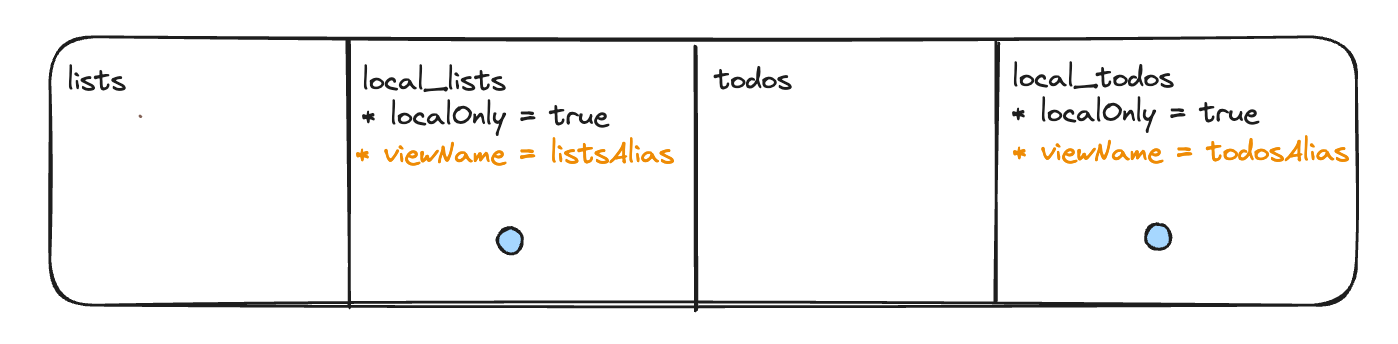
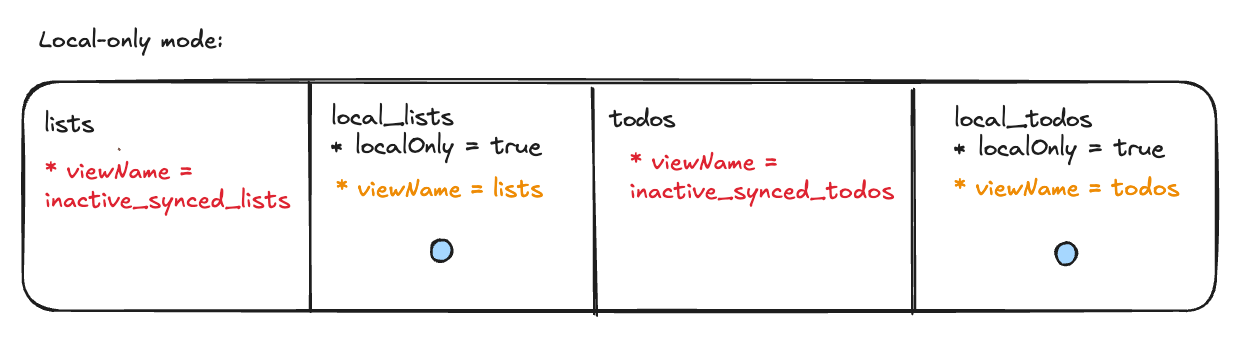
More polish

diff --git a/demos/local-only-todolist/lib/models/todo_list.dart b/demos/local-only-todolist/lib/models/todo_list.dart
@@ -1,3 +1,5 @@
+import 'package:powersync_flutter_local_only_demo/models/schema.dart';
+
 import 'package:powersync/powersync.dart';
 import 'package:powersync/sqlite3_common.dart' as sqlite;
 
@@ -39,7 +41,7 @@ class TodoList {
   static Stream<List<TodoList>> watchLists() {
     // This query is automatically re-run when data in "lists" or "todos" is modified.
     return db
-        .watch('SELECT * FROM lists ORDER BY created_at, id')
+        .watch('SELECT * FROM $listsTable ORDER BY created_at, id')
         .map((results) {
       return results.map(TodoList.fromRow).toList(growable: false);
     });
@@ -51,8 +53,8 @@ class TodoList {
     return db.watch('''
       SELECT
         *,
-        (SELECT count() FROM todos WHERE list_id = lists.id AND completed = TRUE) as completed_count,
-        (SELECT count() FROM todos WHERE list_id = lists.id AND completed = FALSE) as pending_count
+        (SELECT count() FROM $todosTable WHERE list_id = lists.id AND completed = TRUE) as completed_count,
+        (SELECT count() FROM $todosTable WHERE list_id = lists.id AND completed = FALSE) as pending_count
       FROM lists
       ORDER BY created_at
     ''').map((results) {
@@ -68,7 +70,7 @@ class TodoList {
   static Future<TodoList> create(String name) async {
     final results = await db.execute('''
       INSERT INTO
-        lists(id, created_at, name, owner_id)
+        $listsTable(id, created_at, name, owner_id)
         VALUES(uuid(), datetime(), ?, ?)
       RETURNING *
       ''', [name, getUserId()]);
@@ -78,7 +80,7 @@ class TodoList {
   /// Watch items within this list.
   Stream<List<TodoItem>> watchItems() {
     return db.watch(
-        'SELECT * FROM todos WHERE list_id = ? ORDER BY created_at DESC, id',
+        'SELECT * FROM $todosTable WHERE list_id = ? ORDER BY created_at DESC, id',
         parameters: [id]).map((event) {
       return event.map(TodoItem.fromRow).toList(growable: false);
     });
@@ -86,12 +88,12 @@ class TodoList {
 
   /// Delete this list.
   Future<void> delete() async {
-    await db.execute('DELETE FROM lists WHERE id = ?', [id]);
+    await db.execute('DELETE FROM $listsTable WHERE id = ?', [id]);
   }
 
   /// Find list item.
   static Future<TodoList> find(id) async {
-    final results = await db.get('SELECT * FROM lists WHERE id = ?', [id]);
+    final results = await db.get('SELECT * FROM $listsTable WHERE id = ?', [id]);
     return TodoList.fromRow(results);
   }
 
@@ -99,7 +101,7 @@ class TodoList {
   Future<TodoItem> add(String description) async {
     final results = await db.execute('''
       INSERT INTO
-        todos(id, created_at, completed, list_id, description, created_by)
+        $todosTable(id, created_at, completed, list_id, description, created_by)
         VALUES(uuid(), datetime(), FALSE, ?, ?, ?)
       RETURNING *
     ''', [id, description, getUserId()]);

diff --git a/demos/local-only-todolist/lib/models/schema.dart b/demos/local-only-todolist/lib/models/schema.dart
@@ -4,6 +4,9 @@ import 'package:powersync_flutter_local_only_demo/models/sync_mode.dart';
 /// This schema design supports a local-only to sync-enabled workflow by managing data
 /// across two versions of each table: one for local-only use without syncing before a user registers, 
 /// the other for sync-enabled use after the user registers/signs in.
+/// 
+/// This is done by utilizing the viewName property to override the default view name
+/// of a table.
 ///
 /// See the README for details.
 ///
@@ -16,16 +19,22 @@ const listsTable = 'lists';
 Schema makeSchema({synced = bool}) {
   String syncedName(String table) {
     if (synced) {
+      // results in lists, todos
       return table;
     } else {
+      // in the local-only mode of the demo
+      // these tables are not used
       return "inactive_synced_$table";
     }
   }
 
   String localName(String table) {
     if (synced) {
+      // in the sync-enabled mode of the demo
+      // these tables are not used
       return "inactive_local_$table";
     } else {
+      // results in lists, todos
       return table;
     }
   }
@@ -68,10 +77,10 @@ switchToSyncedSchema(PowerSyncDatabase db, String userId) async {
   await setSyncEnabled(true);
 
   await db.writeTransaction((tx) async {
-    // Copy local-only data to the sync-enabled tables/views.
+    // Copy local-only data to the sync-enabled views.
     // This records each operation in the upload queue.
     await tx.execute(
-        'INSERT INTO lists(id, name, created_at, owner_id) SELECT id, name, created_at, ? FROM inactive_local_lists',
+        'INSERT INTO $listsTable(id, name, created_at, owner_id) SELECT id, name, created_at, ? FROM inactive_local_$listsTable',
         [userId]);
 
     await tx.execute(

diff --git a/demos/local-only-todolist/lib/app_config.dart b/demos/local-only-todolist/lib/app_config.dart
@@ -1,6 +1,6 @@
 // Enter your Supabase and PowerSync project details.
 class AppConfig {
-  static const String supabaseUrl = 'https://foo.supabase.co';
-  static const String supabaseAnonKey = 'foo';
-  static const String powersyncUrl = 'https://foo.powersync.journeyapps.com';
+  static const String supabaseUrl = 'https://beaywnuieweznatavpeg.supabase.co';
+  static const String supabaseAnonKey = 'eyJhbGciOiJIUzI1NiIsInR5cCI6IkpXVCJ9.eyJpc3MiOiJzdXBhYmFzZSIsInJlZiI6ImJlYXl3bnVpZXdlem5hdGF2cGVnIiwicm9sZSI6ImFub24iLCJpYXQiOjE3MjU0NTk3OTAsImV4cCI6MjA0MTAzNTc5MH0.sb5_RBESMWbfnq_xaZy00T8Mia9lzY0-BBc7ZovS5t0';
+  static const String powersyncUrl = 'https://660fe3a331d70135abf2c626.powersync.journeyapps.com';
 }

diff --git a/demos/local-only-todolist/README.md b/demos/local-only-todolist/README.md
@@ -40,7 +40,7 @@ It does the following:
 
 ## Configure your PowerSync Instance
 
-Create a new PowerSync instance, connecting to the database of the Supabase project.
+Create a new PowerSync instance, connecting to the database of the Supabase project. See instructions [here](https://docs.powersync.com/integration-guides/supabase-+-powersync#connect-powersync-to-your-supabase).
 
 Then deploy the following sync rules:
 
@@ -60,7 +60,7 @@ Insert the credentials of your Supabase and PowerSync projects into `lib/app_con
 
 ## Sign in to the app
 
-Reload the app and sign up or sign in. Once successfully signed in, existing and new data should seamlessly sync with Supabase.
+Restart the app and sign up or sign in. Once successfully signed in, existing and new data should seamlessly sync with Supabase.
 
 
 # How this works
@@ -79,25 +79,23 @@ The downside to this approach is that app queries would need to continuously dif
 
 ## Recommended implementation
 
-To keep app queries consistent between the two states, we utilize the [viewName](https://pub.dev/documentation/powersync/latest/powersync/Table/viewName.html) property, which allows overriding the default name of the view that is used in queries. 
+To keep app queries consistent between the two states, we utilize the [viewName](https://pub.dev/documentation/powersync/latest/powersync/Table/viewName.html) property, which allows overriding the default name of schema views (each table automatically has a corresponding view, defaulting to the table name, which is used in queries). 
 
 This looks as follows in the local-only state:
 
 ![diagram-1](./assets/local-only-readme-1.png)
 
-The local-only tables (`local_lists` and `local_todos`) have their view names overriden to `listsAlias` and `todosAlias`, and these names are used in queries (e.g. `PowerSync.getAll("SELECT * FROM listsAlias");`). The `lists` and `todos` tables are not used in this state, but will become relevant in the next step.
+The local-only tables (`local_lists` and `local_todos`) have their view names overriden to `lists` and `todos`, and these names are used in queries (e.g. `PowerSync.getAll("SELECT * FROM lists");`). The `lists` and `todos` tables, which are the sync-enabled tables without the `localOnly` flag, are not used at this stage, as indicated by their `inactive_synced_` view names.
 
 When the user registers / signs in:
 
 ![diagram-2](./assets/local-only-readme-2.png)
 
-The _synced_ tables (`lists` and `todos`) now have their view names overriden to `listsAlias` and `todosAlias`. Note that `updateSchema` must be run to update the view name. See the [schema](./lib/models/schema.dart) for details about this. The app query `PowerSync.getAll("SELECT * FROM listsAlias")` now reads data from the `lists` table. 
+The _synced_ tables (`lists` and `todos`) now have their view names set to `lists` and `todos`. Note that `updateSchema` must be run to update the view name. See the [schema](./lib/models/schema.dart) for details about this. The app query `PowerSync.getAll("SELECT * FROM lists")` now reads data from the `lists` table. 
 
 Finally, copy data from the local-only tables to the synced tables, and delete data from the local-only tables to reduce database size:
 
 ![diagram-3](./assets/local-only-readme-3.png)
-
-
 
 At this point, being signed in no longer determines which schema should be used, as the user's session expiring and explicitly signing out trigger different behaviors. If the session expires, the user can continue interacting with their data. However, if the user explicitly logs out, all data is cleared, effectively resetting the app. To manage this, an additional local storage mechanism is used to track which schema is currently in use, as seen [here](./lib/models/sync_mode.dart). Note that any other local storage solution would work as long as it's not using the PowerSync database (chicken and egg problem).
 
